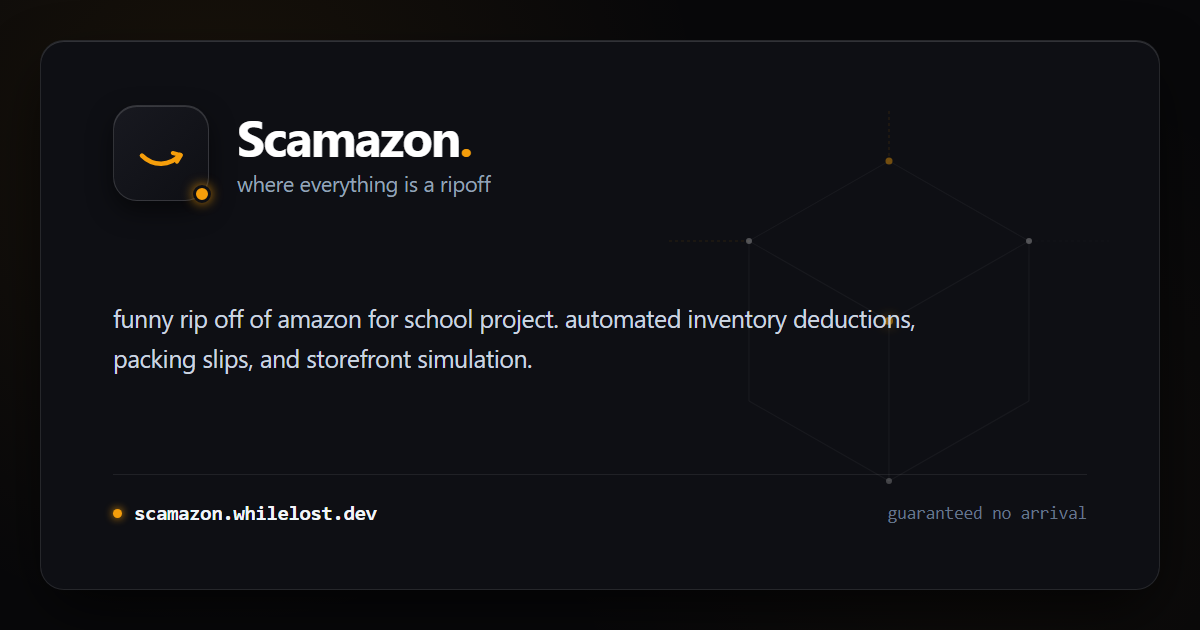
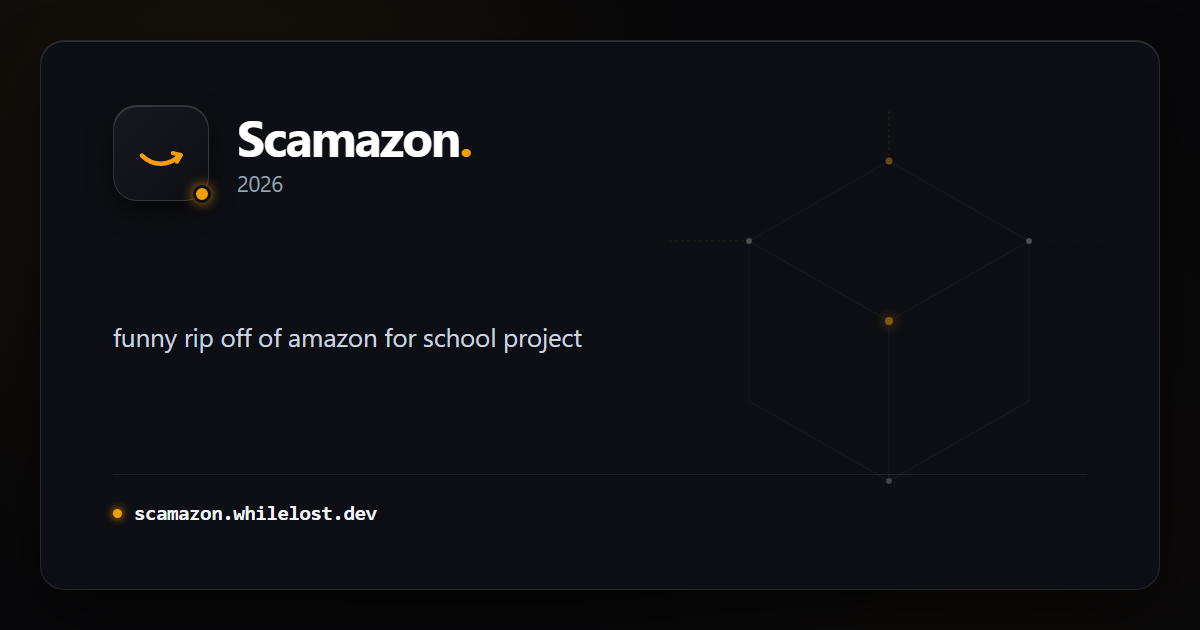
style(og): mirror project name and description exactly

Changed region(s): [[0.0925, 0.4825, 0.7708, 0.6032], [0.185, 0.2714, 0.4317, 0.3016], [0.74, 0.7841, 0.8942, 0.8444]]

diff --git a/index.html b/index.html
@@ -9,20 +9,20 @@
     <!-- Open Graph / Discord / Social Embeds -->
     <meta property="og:type" content="website">
     <meta property="og:site_name" content="Scamazon">
-    <meta property="og:title" content="Scamazon — Where Everything is a Ripoff!">
-    <meta property="og:description" content="Guaranteed no arrival since 1994. Full-stack e-commerce simulation with live storefront, inventory deductions, &amp; worker portals.">
+    <meta property="og:title" content="Scamazon">
+    <meta property="og:description" content="funny rip off of amazon for school project">
     <meta property="og:url" content="https://scamazon.whilelost.dev/">
     <meta property="og:image" content="https://scamazon.whilelost.dev/scamazon-og.png">
     <meta property="og:image:secure_url" content="https://scamazon.whilelost.dev/scamazon-og.png">
     <meta property="og:image:type" content="image/png">
     <meta property="og:image:width" content="1200">
     <meta property="og:image:height" content="630">
-    <meta property="og:image:alt" content="Scamazon — Where Everything is a Ripoff!">
+    <meta property="og:image:alt" content="Scamazon">
 
     <!-- Twitter / Discord Large Card -->
     <meta name="twitter:card" content="summary_large_image">
-    <meta name="twitter:title" content="Scamazon — Where Everything is a Ripoff!">
-    <meta name="twitter:description" content="Guaranteed no arrival since 1994. Full-stack e-commerce simulation with live storefront, inventory deductions, &amp; worker portals.">
+    <meta name="twitter:title" content="Scamazon">
+    <meta name="twitter:description" content="funny rip off of amazon for school project">
     <meta name="twitter:image" content="https://scamazon.whilelost.dev/scamazon-og.png">
 
     <!-- Discord Amber Theme Accent Border -->
